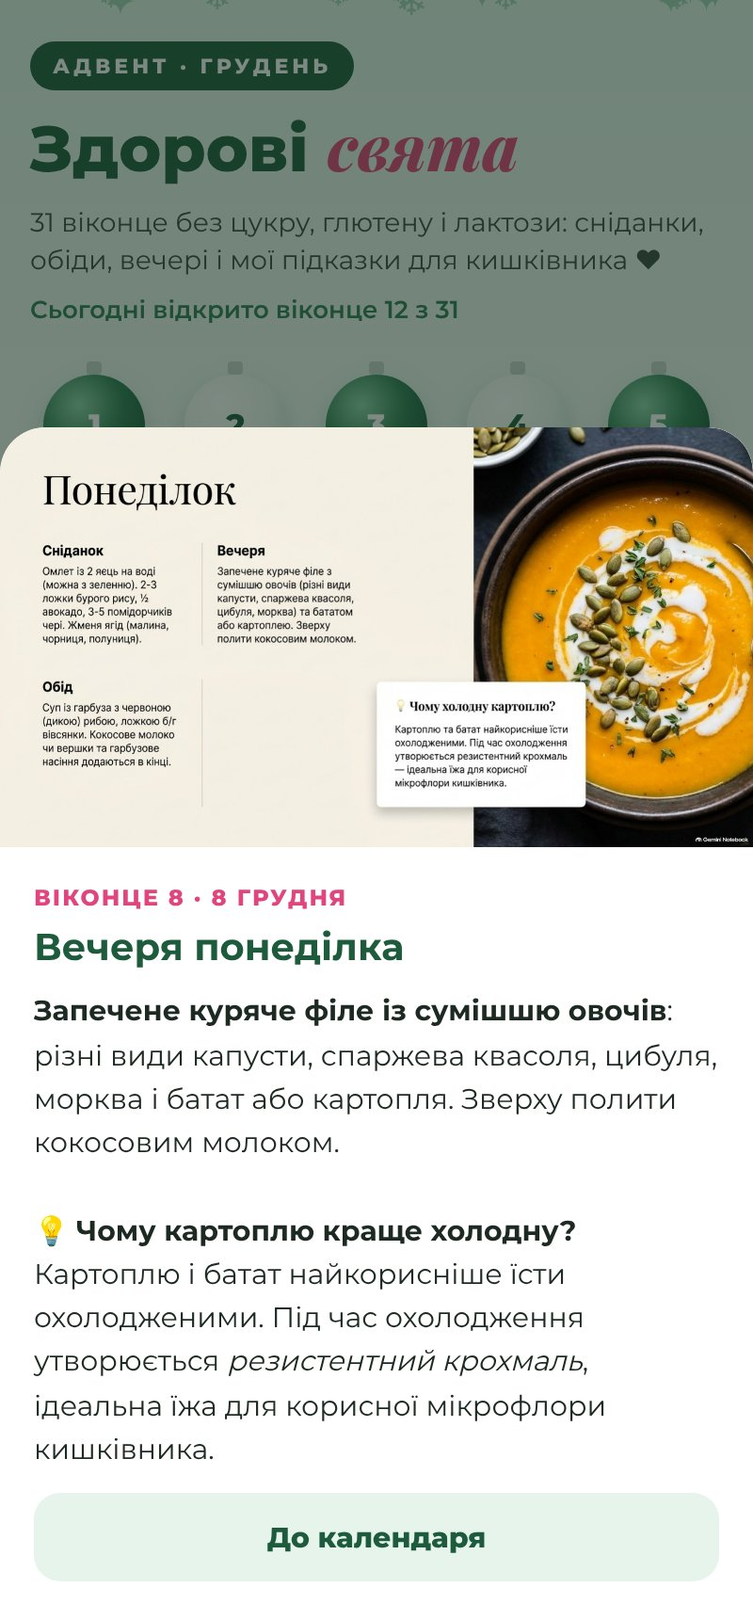
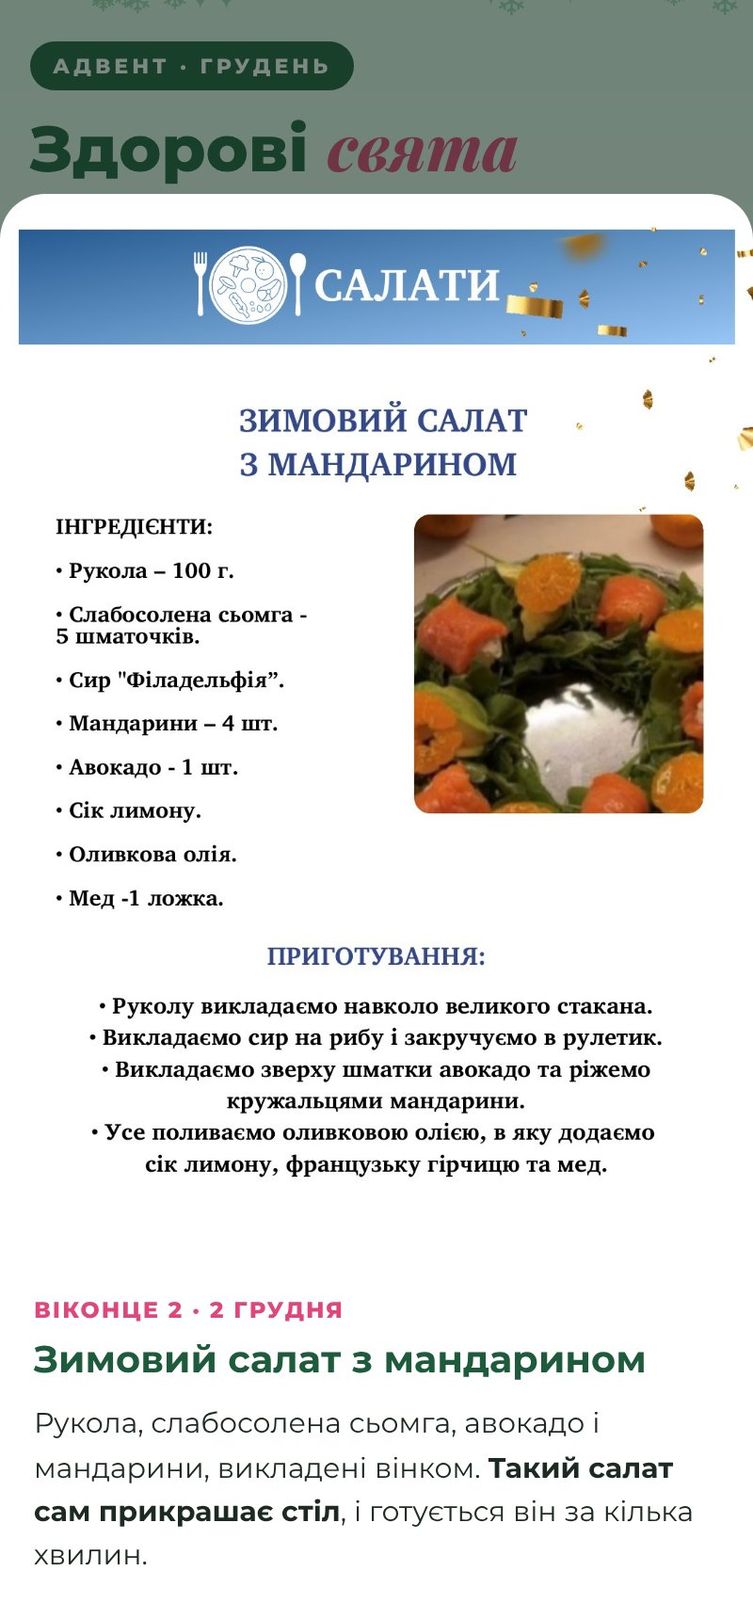
Адвент: рецепти зі «Збірника рецептів на новорічні свята» (24 рецепти, 4 поради), меню на тиждень у подарунок 24.12; Валентині оновлене пояснення і фото
Claude-Session: https://claude.ai/code/session_01P95tyL1PPecuZWfpcGvJVw

diff --git a/advent_data.py b/advent_data.py
@@ -1,114 +1,96 @@
-"""26.11.2026: 31 віконце адвенту Валентини «Здорові свята». Усе взято з її файлу «Здорове меню на тиждень»
-(media/zdorove_menu_tyzhden.pdf, сторінки images/advent/p-01..p-10.jpg). Нічого не вигадувати: нові віконця тільки з її матеріалів.
-Кожне віконце: (сторінка-картинка або "", заголовок, текст HTML, вид). Вид: "" звичайне, "gift" подарунок-файл, "book" бронь 159 (ціна адвенту).
+"""26.11.2026: 31 віконце адвенту Валентини «Здорові свята». Рецепти з її «Збірника рецептів на новорічні свята»
+(сторінки images/advent/r/rNN.jpg, NN = сторінка збірника), подарунок 24.12 = «Здорове меню на тиждень»
+(media/zdorove_menu_tyzhden.pdf, обкладинка images/advent/p-01.jpg). Нічого не вигадувати: рецепти тільки з її файлів.
+Кожне віконце: (картинка або "", заголовок, текст HTML, вид). Вид: "" звичайне, "gift" подарунок-файл, "book" бронь 159 (ціна адвенту).
 """
 
+SAVE = "\n\n<i>Повний рецепт на картинці, збережіть собі</i> ❤"
+
+
+def R(pic, title, intro):
+    return ("r/" + pic, title, intro + SAVE)
+
+
 W = [
-    ("p-02", "Без глютену",
-     "Перше, з чого я починаю з усіма клієнтами: прибираємо пшеницю.\n\n"
-     "Замість неї <b>кіноа, гречка, бурий рис, пшоно і сочевиця</b>. Вони дають ситість і енергію, а кишківнику не доводиться боротися з глютеном.\n\n"
-     "<i>Спробуйте сьогодні замінити хліб чи макарони хоча б в одному прийомі їжі</i> 😉"),
-    ("p-02", "Без лактози",
-     "Молоко і вершки легко замінити, і смак від цього тільки виграє.\n\n"
-     "Мої альтернативи: <b>кокосове молоко та вершки, масло гхі</b> (в ідеалі козяче) і <b>витриманий козячий або овечий сир</b>.\n\n"
-     "У святкових стравах кокосові вершки працюють чудово, перевірено ❤"),
-    ("p-02", "Замість цукру",
-     "Солодке на свята можна, якщо правильно обрати, чим підсолоджувати.\n\n"
-     "Замість цукру я використовую <b>стевію, еритритол, монкфрут або кероб</b>.\n\n"
-     "<i>Так десерт лишається десертом, а травлення не страждає.</i>"),
-    ("p-02", "Ферментовані овочі щодня",
-     "Ось маленька звичка, яка дуже допомагає кишківнику.\n\n"
-     "Щодня додавайте <b>ферментовані овочі: квашену капусту, буряк, огірки</b>. А ще <b>неактивні харчові дріжджі</b>.\n\n"
-     "Ложка квашеної капусти до будь-якої страви вже рахується 😉"),
-    ("p-10", "Конструктор здорової тарілки",
-     "Збережіть собі цю схему, вона працює і в будні, і за святковим столом.\n\n"
-     "🥦 <b>50% овочі та клітковина:</b> різні види капусти, броколі, зелень, помідори, морква, селера і обов'язково ферментовані овочі\n"
-     "🐟 <b>25% чистий білок:</b> дика риба (скумбрія, лосось, хек, тунець), морепродукти, птиця, яйця, печінка. Без свинини\n"
-     "🍚 <b>25% складні вуглеводи без глютену:</b> бурий рис, гречка, кіноа, пшоно, сочевиця, охолоджена картопля або батат\n"
-     "🥑 <b>+ корисні жири:</b> масло гхі, кокосове молоко, авокадо, оливкова олія, горіхова паста, печінка тріски, сало помірно"),
-    ("p-03", "Сніданок понеділка",
-     "<b>Омлет із 2 яєць на воді</b> (можна з зеленню), 2-3 ложки бурого рису, ½ авокадо, 3-5 помідорчиків черрі і жменя ягід: малина, чорниця, полуниця.\n\n"
-     "<i>Простий, ситий і без жодної важкості до обіду.</i>"),
-    ("p-03", "Обід понеділка: гарбузовий суп",
-     "<b>Суп із гарбуза з червоною (дикою) рибою</b> і ложкою безглютенової вівсянки.\n\n"
-     "Кокосове молоко чи вершки та гарбузове насіння додаються в кінці. Дуже затишний грудневий суп ❤"),
-    ("p-03", "Вечеря понеділка",
-     "<b>Запечене куряче філе із сумішшю овочів</b>: різні види капусти, спаржева квасоля, цибуля, морква і батат або картопля. Зверху полити кокосовим молоком.\n\n"
-     "💡 <b>Чому картоплю краще холодну?</b> Картоплю і батат найкорисніше їсти охолодженими. Під час охолодження утворюється <i>резистентний крохмаль</i>, ідеальна їжа для корисної мікрофлори кишківника."),
-    ("p-04", "Сніданок вівторка",
-     "<b>2-4 ложки гречки з маслом гхі</b> (краще козячим), 2 котлетки з нежирного м'яса на пару або запечені: куряче, індиче, кроляче, теляче.\n\n"
-     "До них ферментована капуста і буряк, ½ авокадо і жменька ягід."),
-    ("p-04", "Обід вівторка",
-     "<b>Паштет із птиці на гречаному хлібці</b> (або з бурого рису), доступні овочі, шматочок козячого чи овечого витриманого сиру і 2-3 бразильські горішки.\n\n"
-     "<i>Такий обід зручно взяти з собою на роботу.</i>"),
-    ("p-04", "Вечеря вівторка: скумбрія",
-     "<b>Запечена скумбрія</b> або інша жирна чи напівжирна риба дикого вилову (не штучно вирощена) з різними видами капусти та інших овочів.\n\n"
-     "Рибу завжди обирайте <b>дикого вилову</b>, це важливо ❤"),
-    ("p-04", "Правило бразильського горіха",
-     "Бразильський горіх дуже корисний, але тут важлива міра.\n\n"
-     "<b>Рівно 2-3 штуки на день, не більше!</b> Вони містять рекордну кількість селену, тому важливо уникати передозування.\n\n"
-     "<i>Під час свят, коли горіхи стоять у вазочці на столі, про це легко забути</i> 😉"),
-    ("p-05", "Сніданок середи: салат із креветками",
-     "<b>Салат із креветками, руколою, черрі, авокадо, мигдалевими пластівцями та насінням.</b> Заправка: лимон чи лайм, оливкова олія, гірчиця.\n\n"
-     "До нього 2-3 ложки кіноа, ягоди або зелене яблуко (можна запечене з корицею).\n\n"
-     "<i>Такий салат прикрасить і святковий стіл.</i>"),
-    ("p-05", "Обід середи: борщ",
-     "<b>Борщ із нежирним м'ясом</b> (окрім свинини), хлібець із горіховою пастою і 1 фрукт: зелений банан, грейпфрут, ківі або ягоди.\n\n"
-     "💡 <b>Чиста горіхова паста.</b> Обирайте пасту з будь-яких горіхів чи насіння (окрім арахісу), де у складі <b>лише 100% горіх</b>, без цукру, додаткових олій і консервантів."),
-    ("p-05", "Вечеря середи",
-     "<b>Куряча печінка, тушкована зі сливами, цибулею, маслом гхі та спеціями.</b> Або хек з овочами в томаті.\n\n"
-     "До неї 2-3 ложки каші з пшона або сочевиці. Печінка зі сливами дуже смачне поєднання, спробуйте ❤"),
-    ("p-06", "Сніданок четверга",
-     "<b>Безглютенові макарони</b> (із сочевиці, гречки або бурого рису) з маслом гхі та харчовими дріжджами.\n\n"
-     "До них печінка тріски (½ маленької баночки), квашена капуста, черрі і <b>1 долька чорного шоколаду</b> 😉"),
-    ("p-06", "Обід четверга: суп із морепродуктів",
-     "<b>Суп із морського коктейлю</b>, кореня селери та пастернаку, цибулі, моркви, зеленого горошку і кокосового молока.\n\n"
-     "До нього сочевичні булочки з хумусом. <i>Ніжний і дуже святковий на смак.</i>"),
-    ("p-06", "Вечеря четверга",
-     "<b>Курячі гомілки, крильця чи філе, тушковані з овочами та нутом</b> (або квасолею).\n\n"
-     "І овочевий салат з оливковою олією або ферментовані овочі."),
-    ("p-06", "Правильний десерт",
-     "Шоколад на свята можна, якщо обрати правильний.\n\n"
-     "💡 Шоколад має містити <b>максимальну кількість какао-продуктів</b>. В ідеалі на стевії або монкфруті замість звичайного цукру (можна з керобом).\n\n"
-     "<i>Читайте склад на звороті плитки, там уся правда</i> 😉"),
-    ("p-07", "Сніданок пʼятниці",
-     "<b>Холодна картопля</b> (відварена в шкірці або запечена), 3-4 шматочки слабосоленого оселедця або скумбрії, квашені огірки чи капуста.\n\n"
-     "І <b>желе з вишневих ягід без цукру</b>. Майже святковий стіл уже зранку ❤"),
-    ("p-07", "Обід пʼятниці",
-     "<b>Пюре з зеленого горошку, курка-кебаб у духовці</b>, помідорчики черрі та гуакамоле.\n\n"
-     "<i>Яскраво, ситно і без жодної пшениці.</i>"),
-    ("p-07", "Вечеря пʼятниці",
-     "<b>Гречка з рибним рієтом</b>: запечений лосось і хек, пасерована цибуля, квашений огірок, оливки. Броколі та інші види капусти на пару, лимон.\n\n"
-     "💡 <b>Желе замість торта.</b> Багате на колаген желе зі свіжих або заморожених ягід ідеальний десерт. Головне жодного цукру: додавайте стевію, еритритол або монкфрут."),
-    ("p-08", "Сніданок суботи",
-     "<b>4-5 перепелиних яєць, сочевиця, тунець у власному соку</b>, овочі, салат і ягоди.\n\n"
-     "<i>Білок, клітковина і ягоди, саме те, щоб не тягнуло на солодке.</i>"),
+    ("r/r03", "Як відсвяткувати без наслідків",
+     "Перш ніж ділитися рецептами, моя головна порада на всі свята.\n\n"
+     "<b>Починайте трапезу з овочів або овочевих салатів.</b> Якщо першою стравою будуть овочі, це допоможе запобігти переїданню, "
+     "зменшить відчуття голоду і допоможе уникнути важкості в шлунку.\n\n"
+     "<b>Обирайте прості страви з риби чи м'яса.</b> Білкова частина обов'язкова на вашій тарілці, але без надмірних жирів: "
+     "багато сиру, майонезу чи соусів.\n\n<i>Завтра вже перший рецепт</i> 😉"),
+    R("r09", "Зимовий салат з мандарином",
+      "Рукола, слабосолена сьомга, авокадо і мандарини, викладені вінком. <b>Такий салат сам прикрашає стіл</b>, і готується він за кілька хвилин."),
+    R("r14", "Дієтичне олів'є",
+      "Олів'є можна! Тільки <b>з запеченими або відвареними овочами, курячою грудкою і заправкою з грецького йогурту</b> замість майонезу. Смак знайомий, а важкості немає."),
+    R("r19", "Брускета з креветками",
+      "Святкова закуска на <b>цільнозерновому хлібі</b>: креветки, козячий сир, часник і італійські трави."),
+    ("r/r04", "Не голодуйте перед застіллям",
+     "<b>Додавайте в тарілку все, що подобається, але по 1-2 столові ложки.</b> Не відмовляйте собі в улюблених стравах, просто дотримуйтеся міри!\n\n"
+     "<b>Не голодуйте протягом дня до того, як сядете за стіл.</b> Не забувайте про сніданок і обід, а для святкового застілля залиште "
+     "лише легку пізню вечерю. <i>Це допоможе уникнути переїдання.</i>"),
+    R("r26", "Стейк з лосося на апельсиновій подушці",
+      "Гаряча страва, яка виглядає по-ресторанному. <b>Лосось у маринаді з меду і апельсинового соку, з розмарином</b> і апельсиновим соусом."),
+    R("r08", "Шуба",
+      "Улюблена шуба в моєму варіанті: <b>буряк, морква, картопля, оселедець і домашній майонез</b> на оливковій олії замість магазинного."),
+    R("r39", "Пюре з цвітної капусти",
+      "Ніжний гарнір замість звичного картопляного пюре. <b>Цвітна капуста, вершки, білий йогурт і оливкова олія</b>, усе збити блендером."),
+    R("r52", "Корисні цукерки",
+      "Солодке на свята можна. <b>Сухофрукти, горіхи, вівсяні пластівці і кокосова стружка</b>, без жодного цукру ❤"),
+    R("r10", "Салат з руколою, гранатом та гарбузом",
+      "Запечений гарбуз, фета, рукола і зерна граната. <b>Яскравий, теплий, справді новорічний</b> салат."),
+    R("r20", "Рулети з рибою",
+      "Тоненькі яєчні млинці, слабосолена риба й огірок. <b>Закуска, яку з'їдають першою</b>."),
+    R("r34", "Індича грудинка по-італійськи",
+      "Ніжна індичка з <b>моцарелою, помідором та італійськими травами</b>. Легкий білок для святкової тарілки, запікається 20-25 хвилин."),
+    ("r/r05", "Про алкоголь чесно",
+     "<b>Безпечної дози алкоголю немає.</b> Але існують допустимі норми: для жінок не більше 1 порції на добу, для чоловіків не більше 2. "
+     "1 порція = 14 г чистого спирту, 150-200 мл вина, 45 мл коньяку або 330 мл пива.\n\n"
+     "<b>Вживайте алкоголь не пізніше, ніж за 4 години до сну.</b>\n\n"
+     "<b>Підтримуйте водний баланс:</b> 1 порція алкоголю вимагає додаткової порції води. Пийте якісну чисту воду протягом усіх святкових днів."),
+    R("r13", "Салат «Сніжинка»",
+      "Білий і дуже святковий. <b>Куряче філе, черрі, сир, кукурудза і листя салату</b> під заправкою зі сметани з гірчицею."),
+    R("r46", "Гуакамоле",
+      "Соус до овочів і хлібців без жодного майонезу: <b>авокадо, помідор, лайм, кінза і оливкова олія</b>."),
+    R("r28", "Печена дорадо",
+      "Ціла запечена риба завжди виглядає святково. <b>Дорадо на подушці з апельсина і лимона</b>, з гранатовим соусом."),
+    R("r48", "Сирний чизкейк",
+      "Десерт, від якого ніхто не відмовиться: <b>сир, кокосове молоко і березовий цукор</b> замість звичайного, зверху крем з медом і ягоди."),
+    R("r11", "Салат з хурмою та сиром",
+      "Хурма зараз у самому сезоні. <b>Хурма, моцарела, черрі і горіхи</b> з бальзамічною заправкою."),
+    R("r25", "Закуска «Новорічна гірлянда»",
+      "Лаваш, м'який сир, слабосолена риба, огірок і яйця, скручені в рулет. <b>На столі виглядає як справжня гірлянда</b> 😉"),
+    R("r31", "Запіканка з куркою та броколі",
+      "Ситна гаряча страва для всієї родини. <b>Куряча грудинка, броколі і гриби</b> під заливкою з яєць і сметани, 30 хвилин у духовці."),
+    R("r40", "Гарбуз з травами",
+      "Простий гарнір, який пахне святом. <b>Гарбуз з італійськими травами, розмарином і кунжутом</b>, запекти 20-25 хвилин."),
+    R("r47", "Запечена груша з рикотою та інжиром",
+      "Теплий десерт для затишного вечора. <b>Груша з рикотою, інжиром, медом і горіхами</b>, запікається 15-20 хвилин."),
+    ("r/r06", "Як допомогти собі після застілля",
+     "<b>Уникайте кави після алкоголю!</b>\n\n"
+     "<b>Ферменти для нормального перетравлювання їжі</b> можуть допомогти, особливо при великому різноманітті страв. Але обирайте лише рослинні.\n\n"
+     "<b>Рослинні гепатопротектори і детоксиканти</b> допоможуть розвантажити печінку і попередити наслідки святкових застіль.\n\n"
+     "<i>Якщо у вас є хронічні захворювання, перед прийомом будь-яких засобів порадьтеся зі своїм лікарем.</i>"),
     ("p-01", "🎁 Мій подарунок вам на Святвечір",
-     "Сьогодні Святвечір, і я дарую вам <b>увесь свій файл «Здорове меню на тиждень»</b> 🎁\n\n"
-     "Збалансований раціон <b>без глютену, лактози і цукру</b> для енергії, краси та здоров'я кишківника: меню на 7 днів, сніданки, обіди, вечері, підказки і конструктор здорової тарілки.\n\n"
-     "Збережіть його собі, щоб після свят просто відкрити і готувати ❤", "gift"),
-    ("p-08", "Обід суботи",
-     "<b>Суп із фрикадельок</b> (нежирний фарш) з бурим рисом, овочами та сумішшю насіння.\n"
-     "Десерт: кілька наперед замочених або бланшованих волоських горіхів.\n\n"
-     "💡 <b>Активація горіхів.</b> Замочування або бланшування горіхів перед вживанням обов'язковий крок. Це руйнує фітинову кислоту, покращує засвоєння мінералів і полегшує травлення."),
-    ("p-08", "Вечеря суботи: мідії",
-     "<b>Мідії, тушковані в томатному соусі або в кокосових вершках</b> з карі, часником, імбиром та лаймом.\n\n"
-     "До них 2-3 ложки білого кіноа і ферментовані овочі. <i>Святкова страва, яка готується за 15 хвилин.</i>"),
-    ("p-09", "Сніданок неділі",
-     "<b>Тюфтелі або ліниві голубці</b> з доступного фаршу (окрім свинини), свіжі або ферментовані овочі.\n\n"
-     "Десерт: <b>чіа, замочене в кокосовому молоці, з ягодами</b>. Чудовий варіант на ранок після свята ❤"),
+     "Сьогодні Святвечір, і я дарую вам <b>свій файл «Здорове меню на тиждень»</b> 🎁\n\n"
+     "Збалансований раціон <b>без глютену і лактози</b> для енергії, краси та здоров'я кишківника: меню на 7 днів, сніданки, обіди, вечері, "
+     "мої підказки і конструктор здорової тарілки.\n\n"
+     "Збережіть його, щоб після свят просто відкрити і готувати ❤", "gift"),
+    R("r37", "Рибні котлети «Загадай бажання»",
+      "Різдвяна страва з сюрпризом: <b>котлети з філе щуки з начинкою з яйця, сиру і кропу</b>. Хто розріже першим, загадує бажання ❤"),
+    R("r53", "Шоколадні тістечка «Новий рік без снігу»",
+      "Шоколадний десерт <b>без борошна і без цукру</b>, бісквіт готується в мікрохвильовці за 3-4 хвилини."),
+    R("r38", "Рулетик «Санта позаздрить»",
+      "Печінковий рулет з <b>морквяно-яєчною начинкою</b>. Корисно, ситно і дуже гарно на зрізі."),
     ("", "Запрошую вас у січень",
      "Свята добігають кінця, і я знаю, що в січні багатьом захочеться <b>розвантажити організм, повернути легкість і привести до ладу травлення</b>.\n\n"
      "Саме для цього мій інтенсив <b>«Здоровий кишківник»</b>, група стартує в січні.\n\n"
      "Для вас, хто відкривав мій адвент, бронь місця всього <code>159 грн</code> замість 350. Це спеціальна ціна тільки тут, в адвенті.\n\n"
      "<i>Хочете почати рік з легкістю? Забронюйте місце, поки діє ціна адвенту</i> 👇", "book"),
-    ("p-09", "Обід неділі",
-     "<b>Безглютенові хлібці</b> (або сочевичний хліб) з кількома шматочками сала і овочі. І власний десерт: шоколад, кокосова стружка, ягоди, банан, за потреби стевія чи еритритол.\n\n"
-     "💡 <b>Баланс смаку.</b> Навіть сало є частиною здорового раціону в помірних кількостях! А домашні десерти з натуральною солодкістю банана та ягід чудова альтернатива магазинним."),
-    ("p-09", "Вечеря неділі: шакшука",
-     "<b>Шакшука</b>: яйця, помідори, солодкий перець. І сочевичні булочки.\n\n"
-     "<i>Легка вечеря перед Новим роком, щоб завтра прокинутись з енергією.</i>"),
-    ("", "🎄 З Новим роком!",
+    R("r16", "Салат з авокадо",
+      "Яйця, червона риба, огірок і авокадо з заправкою з йогурту і гірчиці. <b>Гарно викласти через стакан і прикрасити ікрою</b> 😉"),
+    R("r54", "Тортик «Серпантин»",
+      "Святковий торт у правильному варіанті: <b>корж з вівсяних пластівців і какао, начинка з м'якого сиру з медом, ківі і банан</b>."),
+    ("r/r55", "🎄 З Новим роком!",
      "Ось і останнє віконце. Дякую, що були зі мною цілий грудень ❤\n\n"
      "Бажаю вам у новому році <b>легкості, енергії і здоров'я</b>, яке починається з тарілки.\n\n"
      "Сьогодні останній день, коли бронь на інтенсив <b>«Здоровий кишківник»</b> коштує <code>159 грн</code> замість 350. "

diff --git a/advent.py b/advent.py
@@ -28,7 +28,7 @@ HOUR = 9
 INVITE = ("🎄 <b>Адвент «Здорові свята»</b>\n\n"
           "Грудень у багатьох проходить однаково: корпоративи, салати, солодке, а потім у січні <i>«чому так важко і живіт як камінь?»</i>\n\n"
           "Я хочу, щоб цього року було інакше. Тому з <b>1 по 31 грудня</b> щоранку о 9:00 я відкриватиму для вас одне віконце: "
-          "сніданок, обід чи вечеря <b>без цукру, глютену і лактози</b>, мої підказки для кишківника і конструктор здорової тарілки.\n\n"
+          "<b>корисний святковий рецепт</b> з мого збірника: салати, закуски, гарячі страви і десерти, а ще мої поради, як відсвяткувати без наслідків.\n\n"
           "А на Святвечір на вас чекає <b>подарунок</b> 🎁\n\n"
           "<i>Усе безкоштовно, просто натисніть кнопку</i> 👇")
 JOINED = ("Ви в адвенті ❤\n\n"
@@ -196,7 +196,7 @@ async def preview_job(ctx):
         try:
             await ctx.bot.send_message(a, INVITE, parse_mode="HTML", reply_markup=M([[B(BTN_JOIN, callback_data="av:join")]]))
             await ctx.bot.send_message(
-                a, "👆 Так виглядатиме запрошення в адвент «Здорові свята» (31 віконце з вашого «Здорового меню на тиждень», "
+                a, "👆 Так виглядатиме запрошення в адвент «Здорові свята» (31 віконце з вашого «Збірника рецептів на новорічні свята», "
                    "24.12 сам файл у подарунок, 28.12 і 31.12 бронь інтенсиву за спецціною 159 замість 350). Посилання для Instagram: "
                    "https://t.me/valentina_shvets_bot?start=advent\n\n"
                    "Розіслати запрошення всім в агенті?",
@@ -243,8 +243,8 @@ async def cmd(update, ctx):
         "Подивитись будь-яке віконце: /advent 5")
 
 
-VALYA = ("🎄 <b>Ваш адвент-календар «Здорові свята» готовий!</b>\n\n"
-         "31 віконце з вашого «Здорового меню на тиждень». З <b>1 по 31 грудня</b> щоранку о 9:00 агент сам надсилатиме людям віконце дня, "
+VALYA = ("🎄 <b>Ваш адвент-календар «Здорові свята» готовий!</b> (оновлена версія з рецептами зі збірника)\n\n"
+         "31 віконце з вашого «Збірника рецептів на новорічні свята»: рецепти і поради перед застіллям. З <b>1 по 31 грудня</b> щоранку о 9:00 агент сам надсилатиме людям віконце дня, "
          "а ще в кожного є зелений календар з кульками, де віконця відкриваються по датах.\n\n"
          "🎁 <b>24 грудня</b> файл «Здорове меню на тиждень» у подарунок\n"
          "🎄 <b>28 і 31 грудня</b> бронь інтенсиву «Здоровий кишківник» за спецціною <code>159 грн</code> (для всіх інших 350)\n\n"
@@ -253,14 +253,14 @@ VALYA = ("🎄 <b>Ваш адвент-календар «Здорові свят
          "У меню агента зверху тепер кнопка <b>«🎄 АДВЕНТ-КАЛЕНДАР «ЗДОРОВІ СВЯТА»»</b>.\n\n"
          "Подивитися будь-яке віконце: <code>/advent 8</code>, скільки людей в адвенті: /advent\n\n"
          "<i>Нижче фото, як адвент виглядає зсередини, а потім запрошення, яке можна розіслати всім кнопкою «✅ Розіслати»</i> 👇")
-PREV = ["1_kalendar", "2_vikontse", "3_bron159", "4_do_startu", "5_zaproshennia", "6_vikontse_v_chati", "7_podarunok"]
+PREV = ["1_kalendar", "2_vikontse", "3_porady", "4_bron159", "5_zaproshennia", "6_vikontse_v_chati", "7_podarunok"]
 
 
 async def valya_job(ctx):
     """26.11 (Тетяна): адмінам один раз пояснення, посилання і фото адвенту (kv av_valya)."""
-    if db.flag_get("av_valya") == "1":
+    if db.flag_get("av_valya2") == "1":  # 26.11 13:20: друга версія (рецепти зі збірника), йде навіть якщо першу вже надіслано
         return
-    db.flag_set("av_valya", "1")
+    db.flag_set("av_valya2", "1")
     from telegram import InputMediaPhoto
     for a in C.ADMIN_IDS:
         try:
@@ -271,5 +271,9 @@ async def valya_job(ctx):
             finally:
                 for f in files:
                     f.close()
+            if db.flag_get("av_sent") != "1":  # оновлене запрошення з кнопкою «Розіслати»
+                await ctx.bot.send_message(a, INVITE, parse_mode="HTML", reply_markup=M([[B(BTN_JOIN, callback_data="av:join")]]))
+                await ctx.bot.send_message(a, "👆 Запрошення в адвент для всіх в агенті. Розіслати?",
+                                           reply_markup=M([[B("✅ Розіслати", callback_data="av:go")]]))
         except Exception as e:
             log.warning("advent valya %s: %s", a, e)

diff --git a/tools/advent_page.py b/tools/advent_page.py
@@ -60,7 +60,7 @@ font-weight:800;font-size:17px;box-shadow:0 8px 16px rgba(29,91,60,.25);transiti
 </style></head><body><div class="wrap">
 <span class="tag">АДВЕНТ · ГРУДЕНЬ</span>
 <h1>Здорові <i>свята</i></h1>
-<p class="sub">31 віконце без цукру, глютену і лактози: сніданки, обіди, вечері і мої підказки для кишківника ❤</p>
+<p class="sub">31 віконце: корисні святкові рецепти з мого збірника, поради, як відсвяткувати без наслідків, і подарунок ❤</p>
 <div class="info" id="info"></div>
 <div class="grid" id="grid"></div>
 <div class="legend">🎁 24 грудня подарунок · кожне віконце відкривається у свій день о 9:00</div>
@@ -103,7 +103,7 @@ const q=new URLSearchParams(location.search).get('d');if(q&&+q<=N)show(+q);
 
 
 def main(out):
-    os.makedirs(os.path.join(out, "img"), exist_ok=True)
+    os.makedirs(os.path.join(out, "img", "r"), exist_ok=True)
     data = []
     for pic, title, text, *k in W:
         data.append({"img": pic, "t": title, "x": text, "k": k[0] if k else ""})

diff --git a/changelog.py b/changelog.py
@@ -10,8 +10,9 @@ import db
 
 log = logging.getLogger("changelog")
 
-VERSION = "2026-11-26-foto"
+VERSION = "2026-11-26-advent-recepty"
 NOTES = [
+    "Адвент тепер з вашого «Збірника рецептів на новорічні свята»: 24 рецепти, 4 поради перед застіллям, 24.12 подарунок «Здорове меню на тиждень», 28 і 31.12 бронь за 159",
     "Картинки в розділах: «Знижки на аналізи» (Сінево, QR Діла, ДНК-тести humess), «Гайд про солодке» (ваше фото з фруктами), «Здоров'я дітей» (обкладинка курсу)",
     "У меню зверху кнопка «🎄 АДВЕНТ-КАЛЕНДАР «ЗДОРОВІ СВЯТА»»",
     "Адвент тепер має свій зелено-білий календар з кульками (кнопка «🎄 Відкрити календар»), віконця відкриваються по датах",

diff --git a/CLAUDE.md b/CLAUDE.md
@@ -95,3 +95,5 @@
 - 26.11: сторінка-календар (зелений/білий/рожевий як каруселі): tools/advent_page.py → репозиторій agents, kyshkivnyk/advent (https://tafijcuktetana12-coder.github.io/agents/kyshkivnyk/advent/). Кнопка web_app «🎄 Відкрити календар» у кожному віконці. ?start=abook → jn:abook (бронь 159 зі сторінки). Після зміни advent_data перезібрати сторінку і запушити agents.
 - 26.11: перша кнопка нижнього меню «🎄 АДВЕНТ-КАЛЕНДАР «ЗДОРОВІ СВЯТА»» (code advent → advent.open_), прапорець меню bm4 (нове меню всім при першій дії). advent.valya_job (kv av_valya): адмінам посилання ?start=advent, пояснення і альбом images/advent/prev/.
 - 26.11: картинки від Тетяни: images/znyzhky/synevo.jpg, dila_qr.jpg (QR був 101 px, збільшено, перевірити сканування), dnk_pakety.jpg (humess); images/guide_solodke.jpg (guide.show, фото з TEXT_1), images/kids_kurs.jpg (kids.show).
+- 26.11 13:20: адвент переписано на «Збірник рецептів на новорічні свята» Валентини (56 стор., сторінки рецептів images/advent/r/rNN.jpg, NN = сторінка): 24 рецепти + 4 поради (стор. 3-6) + подарунок меню 24.12 + бронь 28 і 31.12. Вступи до рецептів звірені з інгредієнтами сторінок. valya_job тепер kv av_valya2 (оновлена версія + запрошення з «Розіслати», якщо ще не розіслано).
+- Чекаємо від Тетяни: PDF гайду «Як позбутися тяги до солодкого» і його ціну (щоб агент сам видавав гайд після оплати), канал курсу для дітей (/dity_kanal), дату старту січня.
